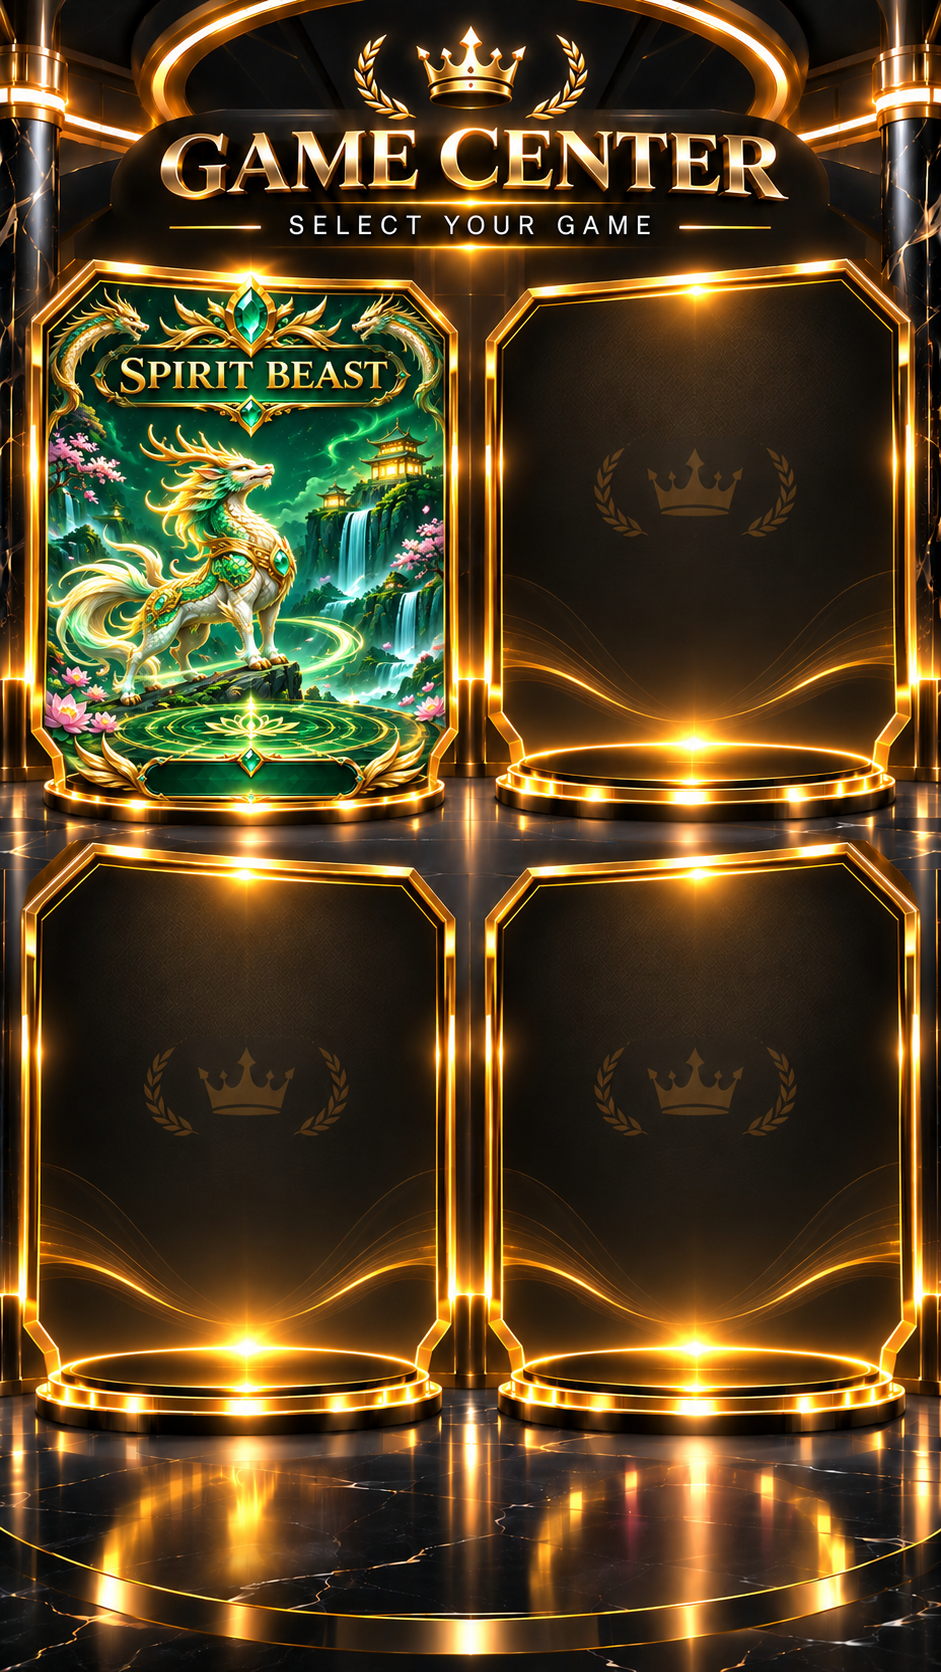
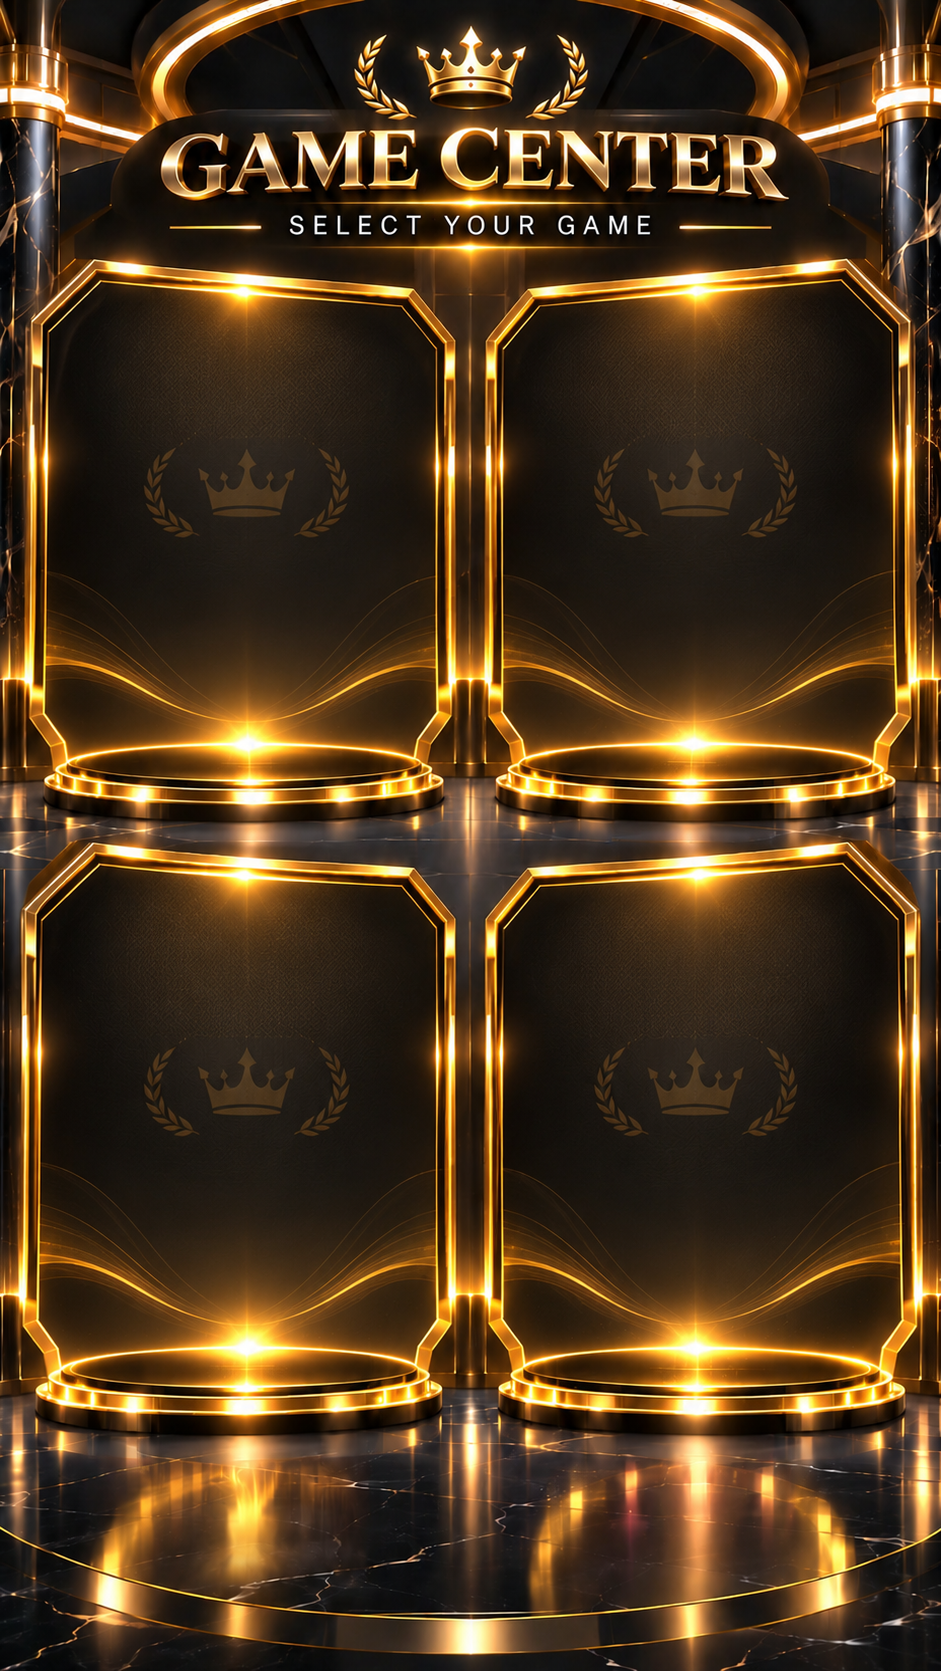
up

diff --git a/public/invest.html b/public/invest.html
@@ -599,21 +599,6 @@ body.sheet-open{
 
 
 
-.invest-card.rps{
-  background-image:
-    linear-gradient(180deg, rgba(0,200,120,.35), rgba(0,0,0,.95)),
-    url("/assets/bg/rps.jpg"); /* có thể để ảnh sau */
-
-  background-size: cover;
-  background-position: center;
-  background-repeat: no-repeat;
-
-  box-shadow:
-    0 0 45px rgba(0,200,120,.35),
-    0 12px 30px rgba(0,0,0,.75);
-}
-
-
 
 
 #gameHubSheet .invest-card{
@@ -3371,11 +3356,12 @@ body.page-invest #portfolioSheet
           draggable="false">
 
         <!-- GAME 1 -->
-        <button type="button"
-                class="game-hitbox game-hitbox-1"
-                onclick="openRPSGame()"
-                aria-label="Rock Paper Scissors">
-        </button>
+      <!-- GAME 1 - SPIRIT BEAST -->
+<button type="button"
+        class="game-hitbox game-hitbox-1"
+        onclick="openSpiritBeastGame()"
+        aria-label="Spirit Beast">
+</button>
 
         <!-- GAME 2 -->
         <button type="button"
@@ -3414,16 +3400,12 @@ body.page-invest #portfolioSheet
     alt="Game Center - Page 2"
     draggable="false">
 
-  <!-- GAME 5 - RESERVED -->
-
-<!-- GAME 5 - SPIRIT BEAST -->
-<button
-  type="button"
-  class="game-hitbox game-hitbox-1"
-  onclick="openSpiritBeastGame()"
-  aria-label="Spirit Beast - Nuôi Linh Thú">
+<!-- GAME 5 - RESERVED -->
+<button type="button"
+        class="game-hitbox game-hitbox-1"
+        disabled
+        aria-label="Future Game 5">
 </button>
-
 
   <!-- GAME 6 - RESERVED -->
   <button type="button"

diff --git a/public/invest.js b/public/invest.js
@@ -302,11 +302,6 @@ function closePortfolio() {
 }
 
 
-function openRPSGame(){
-  location.href = "/game-rps.html"; // trang game sau này
-}
-
-
 
 function openKingSlaveGame(){
   location.href = "/game-king-slave.html";
@@ -319,16 +314,10 @@ function openTimeRaceGame(){
 
 
 
-
-
 function openDragonTigerGame(){
   location.href = "/game-dragon-tiger-phoenix.html";
 }
 
-
-function openTimeStopGame(){
-  location.href = "/game-time-stop.html";
-}
 
 
 function openWheel8Game(){
